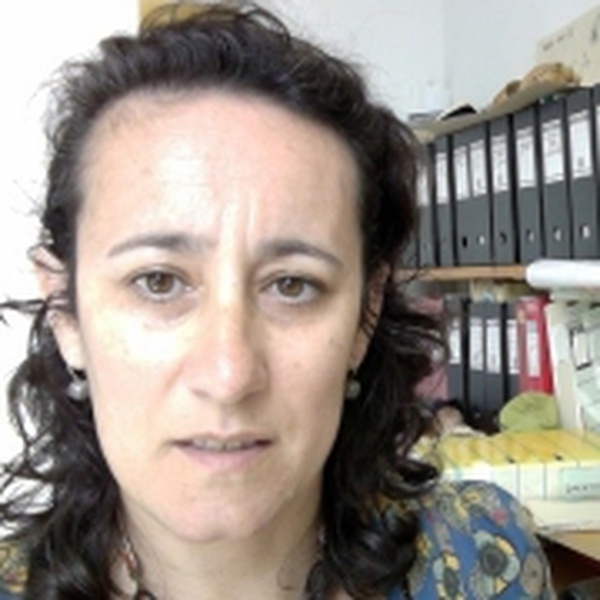
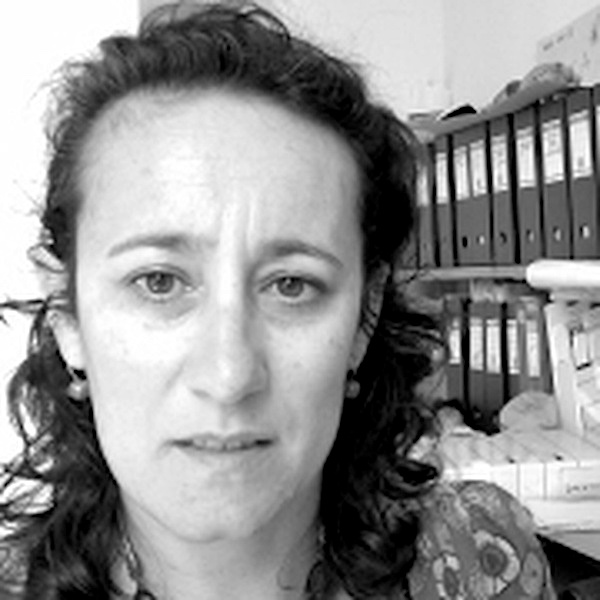
First commit

diff --git a/home.html b/home.html
@@ -22,7 +22,7 @@
 	<link rel="stylesheet" href="assets/css/style.css">
 	<link rel="stylesheet" href="assets/css/animate.css">
 	<link rel="stylesheet" href="assets/fonts/et-line-font/style.css">
-	<link rel="stylesheet" href="assets/fonts/font-awesome-4.3/css/font-awesome.min.css">
+	<link rel="stylesheet" href="https://use.fontawesome.com/releases/v5.8.2/css/all.css">
 	<link rel="stylesheet" href="assets/css/bxslider/jquery.bxslider.css">
 	<link rel="stylesheet" href="assets/css/owl.carousel/owl.carousel.css">
 	<link rel="stylesheet" href="assets/css/owl.carousel/owl.theme.css">
@@ -314,14 +314,14 @@
 					<div class="col-sm-6">
 						<div class="member-team text-center">
 							<div class="team-image">
-								<img src="assets/images/diogo2.png" style="width: 200pt" alt="">
+								<img src="assets/images/diogo.png" style="width: 200pt; border-radius: 50%; filter: grayscale(100%)" alt="">
 								<div class="overlay" style="height: 200pt">
 									<div class="vertical-align-table">
 										<div class="vertical-align-cell">
 											<p>Diogo Kramel holds a Degree in Naval Architecture and Ocean Engineering from University of São Paulo (USP) and a Master Degree in Maritime Spatial Planning from University of the Azores, University of Seville, and IUAv.</p>
 											<ul class="social-icons">
 												<li><a data-rel="tooltip" data-toggle="tooltip" data-trigger="hover" data-placement="bottom" data-title="E-mail" href="mailto:diogo.kramel@gmail.com" data-original-title="" title=""><i class="fa fa-envelope"></i></a></li>
-												<li><a data-rel="tooltip" data-toggle="tooltip" data-trigger="hover" data-placement="bottom" data-title="Skype" href="skype:krameldiogo" data-original-title="" title=""><i class="fa fa-skype"></i></a></li>
+												<li><a data-rel="tooltip" data-toggle="tooltip" data-trigger="hover" data-placement="bottom" data-title="Skype" href="skype:krameldiogo" data-original-title="" title=""><i class="fab fa-skype"></i></a></li>
 											</ul>
 										</div>
 									</div>
@@ -334,16 +334,17 @@
 					<div class="col-sm-6">
 						<div class="member-team text-center">
 							<div class="team-image">
-								<img src="assets/images/ana.jpg" style="width: 200pt" alt="">
+								<img src="assets/images/ana.jpg" style="width: 200pt; border-radius: 50%; filter: grayscale(100%)" alt="">
 								<div class="overlay" style="height: 200pt">
 									<div class="vertical-align-table">
 										<div class="vertical-align-cell" style="text-align: left; font-size: 8pt">
-											<p>Ana C. Costa obtained her Degree in Faunistic Resources and Environment (1988) at Faculty of Sciences of Lisbon University. She started her academic career at University of the Azores in 1990, as assistant trainee and there she obtained her PhD in Marine Sciences – Marine Ecology (2004).</p>
+											<p>Ana C. Costa obtained her Degree in Faunistic Resources and Environment at Faculty of Sciences of Lisbon University and her PhD in Marine Sciences – Marine Ecology at University of the Azores.</p>
 											<p>She has been involved in Coastal Zone Management Planning for small islands in the Azores, Marine Spatial Planning and Conservation in Marine Protected Areas.</p>
 											<p>She currently teaches Animal Diversity and Biology, Biological Oceanography, Coastal Biology and Toxicology, and coordinates the Master Program in Biodiversity and Island Ecology (MBEI). </p>
 											<ul class="social-icons" style="text-align: center">
+												<li><a data-rel="tooltip" data-toggle="tooltip" data-trigger="hover" data-placement="bottom" data-title="Website" href="https://cibio.up.pt/people/details/arcosta" data-original-title="" title=""><i class="fas fa-user"></i></a></li>
 												<li><a data-rel="tooltip" data-toggle="tooltip" data-trigger="hover" data-placement="bottom" data-title="E-mail" href="mailto:ana.cm.costa@uac.pt" data-original-title="" title=""><i class="fa fa-envelope"></i></a></li>
-												<li><a data-rel="tooltip" data-toggle="tooltip" data-trigger="hover" data-placement="bottom" data-title="Skype" href="skype:nuchese" data-original-title="" title=""><i class="fa fa-skype"></i></a></li>
+												<li><a data-rel="tooltip" data-toggle="tooltip" data-trigger="hover" data-placement="bottom" data-title="Skype" href="skype:nuchese" data-original-title="" title=""><i class="fab fa-skype"></i></a></li>
 											</ul>
 										</div> 
 									</div>
